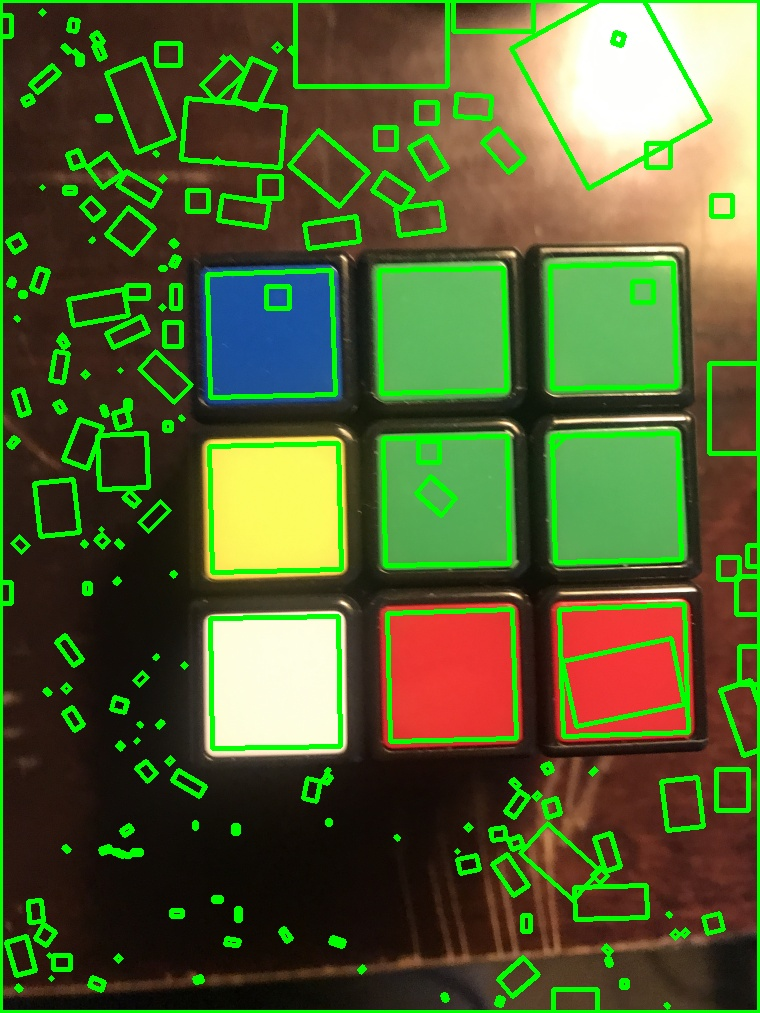
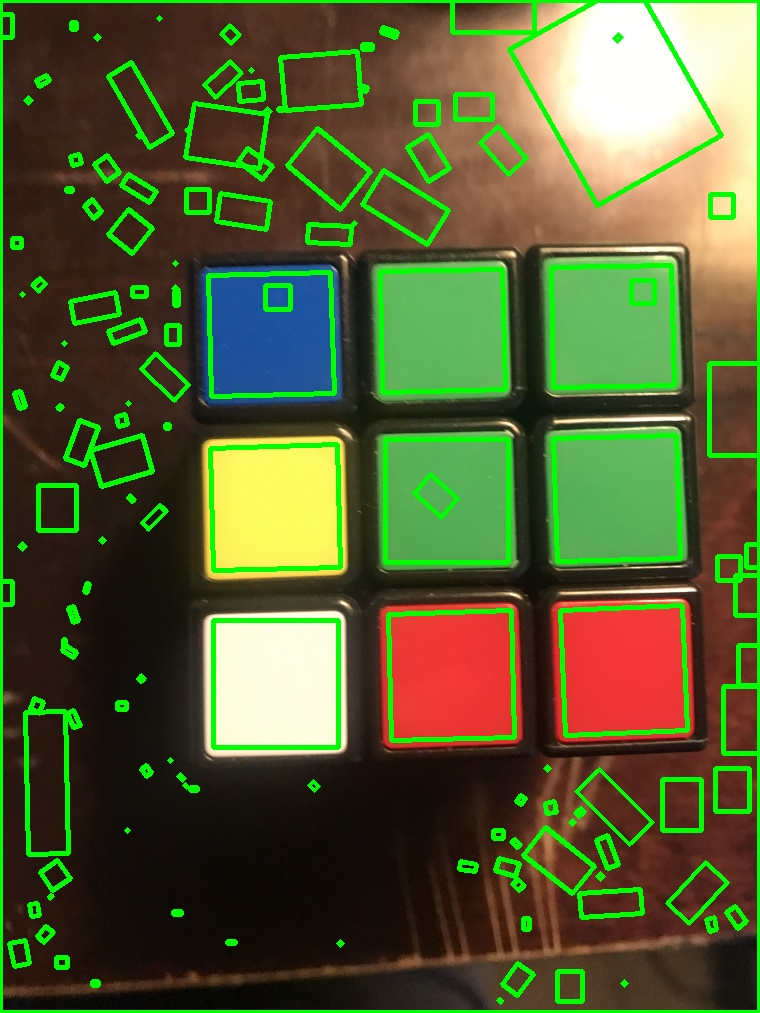
idk

diff --git a/find_faces.py b/find_faces.py
@@ -7,7 +7,7 @@ import random
 
 EXECUTION_DIRECTORY = os.getcwd()
 
-IMAGE_DIRECTORY_NAME = "all rubiks images/simple_rubiks"
+IMAGE_DIRECTORY_NAME = "all rubiks images/rubiks very simple"
 IMAGE_DIRECTORY = os.path.join(EXECUTION_DIRECTORY,IMAGE_DIRECTORY_NAME)
 
 NUM_IMAGES = 6
@@ -116,7 +116,7 @@ for i in range(NUM_IMAGES):
     eroded = cv2.erode(thresh_inverted, erosion_kernel)
     dilated = cv2.dilate(eroded,dilation_kernel)
     
-    blur = cv2.GaussianBlur(dilated, (17,17), 0)
+    blur = cv2.GaussianBlur(dilated, (21,21), 0)
 
     # edges = cv2.Canny(dilated, 0, 255)
     contours, hierarchy = cv2.findContours(blur, cv2.RETR_TREE, cv2.CHAIN_APPROX_SIMPLE)
@@ -131,6 +131,7 @@ for i in range(NUM_IMAGES):
     not_square = image.copy()
     not_color = image.copy()
     all_boxes = image.copy()
+    masks = np.zeros(image.shape,np.uint8)
     good_contours = []
     areas = []
     aspect_ratios = []
@@ -162,7 +163,7 @@ for i in range(NUM_IMAGES):
             # centers.append((center,cnt))
             # cv2.drawContours(no_area_blank,[box],0,(0,255,0),3)
             cv2.circle(no_area_blank, center, 3, (255,0,0), 3)
-            if abs(ratio - 1) < 0.1:
+            if abs(ratio - 1) < 10.1:
                 cv2.drawContours(not_square,[box],0,(0,255,0), 3)
                 mask = np.zeros(image_gray.shape,np.uint8)
                 cv2.drawContours(mask, [cnt], 0, 255, -1)
@@ -172,6 +173,8 @@ for i in range(NUM_IMAGES):
                 print("RAW", raw_color_label, raw_confidence, "RATIO", ratio_color_label, ratio_confidence)
                 if ratio_confidence > CONFIDENCE_THRESHOLD:
                     cv2.drawContours(not_color, [box], 0, (0,255,0), 3)
+                    cv2.drawContours(masks, [cnt], 0, ratio_color, -1)
+                    cv2.drawContours(masks, [box], 0, (0,255,0), 3)
                     ax += cx
                     ay += cy
                     good_contours.append(cnt)
@@ -282,9 +285,10 @@ for i in range(NUM_IMAGES):
     cv2.imwrite(os.path.join(IMAGE_DIRECTORY,"sample_images/"+str(i)+"0input.jpg"),image)
     # cv2.imwrite(os.path.join(IMAGE_DIRECTORY,"sample_images/"+str(i)+"1yuv.jpg"),yuv_image)
     # cv2.imwrite(os.path.join(IMAGE_DIRECTORY,"sample_images/"+str(i)+"2invthresh.jpg"),thresh_inverted)
-    # cv2.imwrite(os.path.join(IMAGE_DIRECTORY,"sample_images/"+str(i)+"3erodilblur.jpg"),blur)
+    cv2.imwrite(os.path.join(IMAGE_DIRECTORY,"sample_images/"+str(i)+"3erodilblur.jpg"),blur)
     # cv2.imwrite(os.path.join(IMAGE_DIRECTORY,"sample_images/"+str(i)+"4contours.jpg"),contour_image)
     cv2.imwrite(os.path.join(IMAGE_DIRECTORY,"sample_images/"+str(i)+"5contoursquares.jpg"),all_boxes)
+    cv2.imwrite(os.path.join(IMAGE_DIRECTORY,"sample_images/"+str(i)+"6masks.jpg"),masks)
     # cv2.imwrite(os.path.join(IMAGE_DIRECTORY,"sample_images/"+str(i)+"6contoursquaresnoarea.jpg"),no_area)
     # cv2.imwrite(os.path.join(IMAGE_DIRECTORY,"sample_images/"+str(i)+"6contoursquaresnoareablank.jpg"),no_area_blank)
     # cv2.imwrite(os.path.join(IMAGE_DIRECTORY,"sample_images/"+str(i)+"7contoursquaresnosquare.jpg"),not_square)

diff --git a/find_faces_clean.py b/find_faces_clean.py
@@ -1,0 +1,16 @@
+"""
+
+"""
+
+import os
+import cv2
+
+EXECUTION_DIRECTORY = os.getcwd()
+
+IMAGE_DIRECTORY_NAME = "all rubiks images/rubiks very simple"
+IMAGE_DIRECTORY = os.path.join(EXECUTION_DIRECTORY,IMAGE_DIRECTORY_NAME)
+
+NUM_IMAGES = 6
+
+CONFIDENCE_THRESHOLD = 0.0
+
